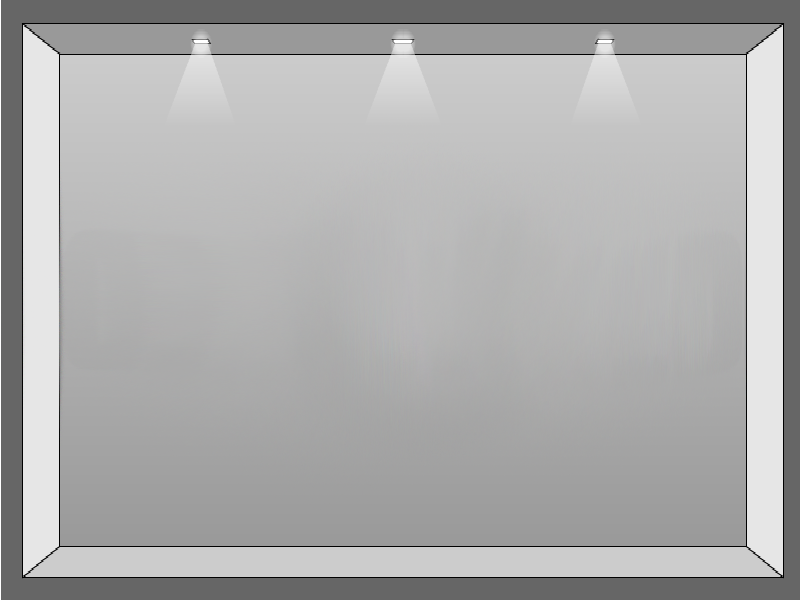
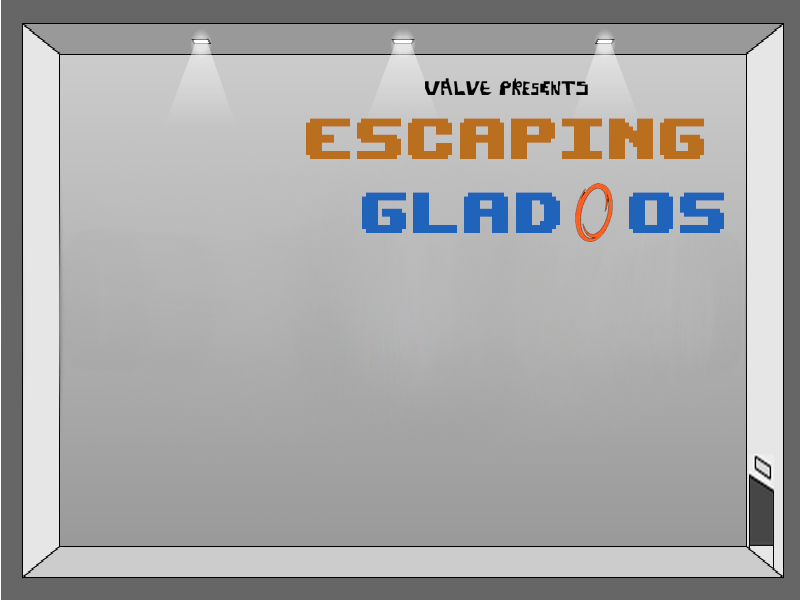
menu

Changed region(s): [[0.375, 0.12, 0.875, 0.27], [0.4375, 0.3, 0.9062, 0.42], [0.9375, 0.75, 0.9688, 0.93]]

diff --git a/menu.py b/menu.py
@@ -2,15 +2,23 @@ from pygame import *
 screen=display.set_mode((800,600))
 menu_background=image.load('menu_background.png')
 door=image.load('door.png')
+glados=transform.scale(image.load('glados.png'),(248,362))
 sprint=[]
+button=image.load('button.png')
+click_button=image.load('button_on_hover.png')
 frame=0
+motion=0
+switch=True
 for i in range(2,26):
-    sprint.append(transform.scale(image.load(str(i+1)+'.png'),(50,70)))
+    sprint.append(transform.smoothscale(image.load(str(i+1)+'.png'),(50,70)))
 def menu():
     global frame
+    global motion, switch
     running = True
     myClock = time.Clock()
+    rects=[(400,(y+5)*55) for y in range(4)]
     
+           
     while running:
         for evnt in event.get():          
             if evnt.type == QUIT:
@@ -21,8 +29,22 @@ def menu():
         
         screen.blit(menu_background,(0,0))
         screen.blit(door,(750,455))
+        screen.blit(glados,(55,0-motion))
         screen.blit(sprint[int(frame)%22],(400,500))
-        frame+=0.6
+        for pos in rects:
+            if (Rect(pos[0],pos[1],208,53)).collidepoint(mpos):
+                screen.blit(click_button,pos)
+            else:
+                screen.blit(button,pos)
+        frame+=0.7
+        if switch:
+            motion+=1
+            if motion==41:
+                switch=False
+        if switch==False:
+            motion-=1
+            if motion==-2:
+                switch=True
         
 
                 
